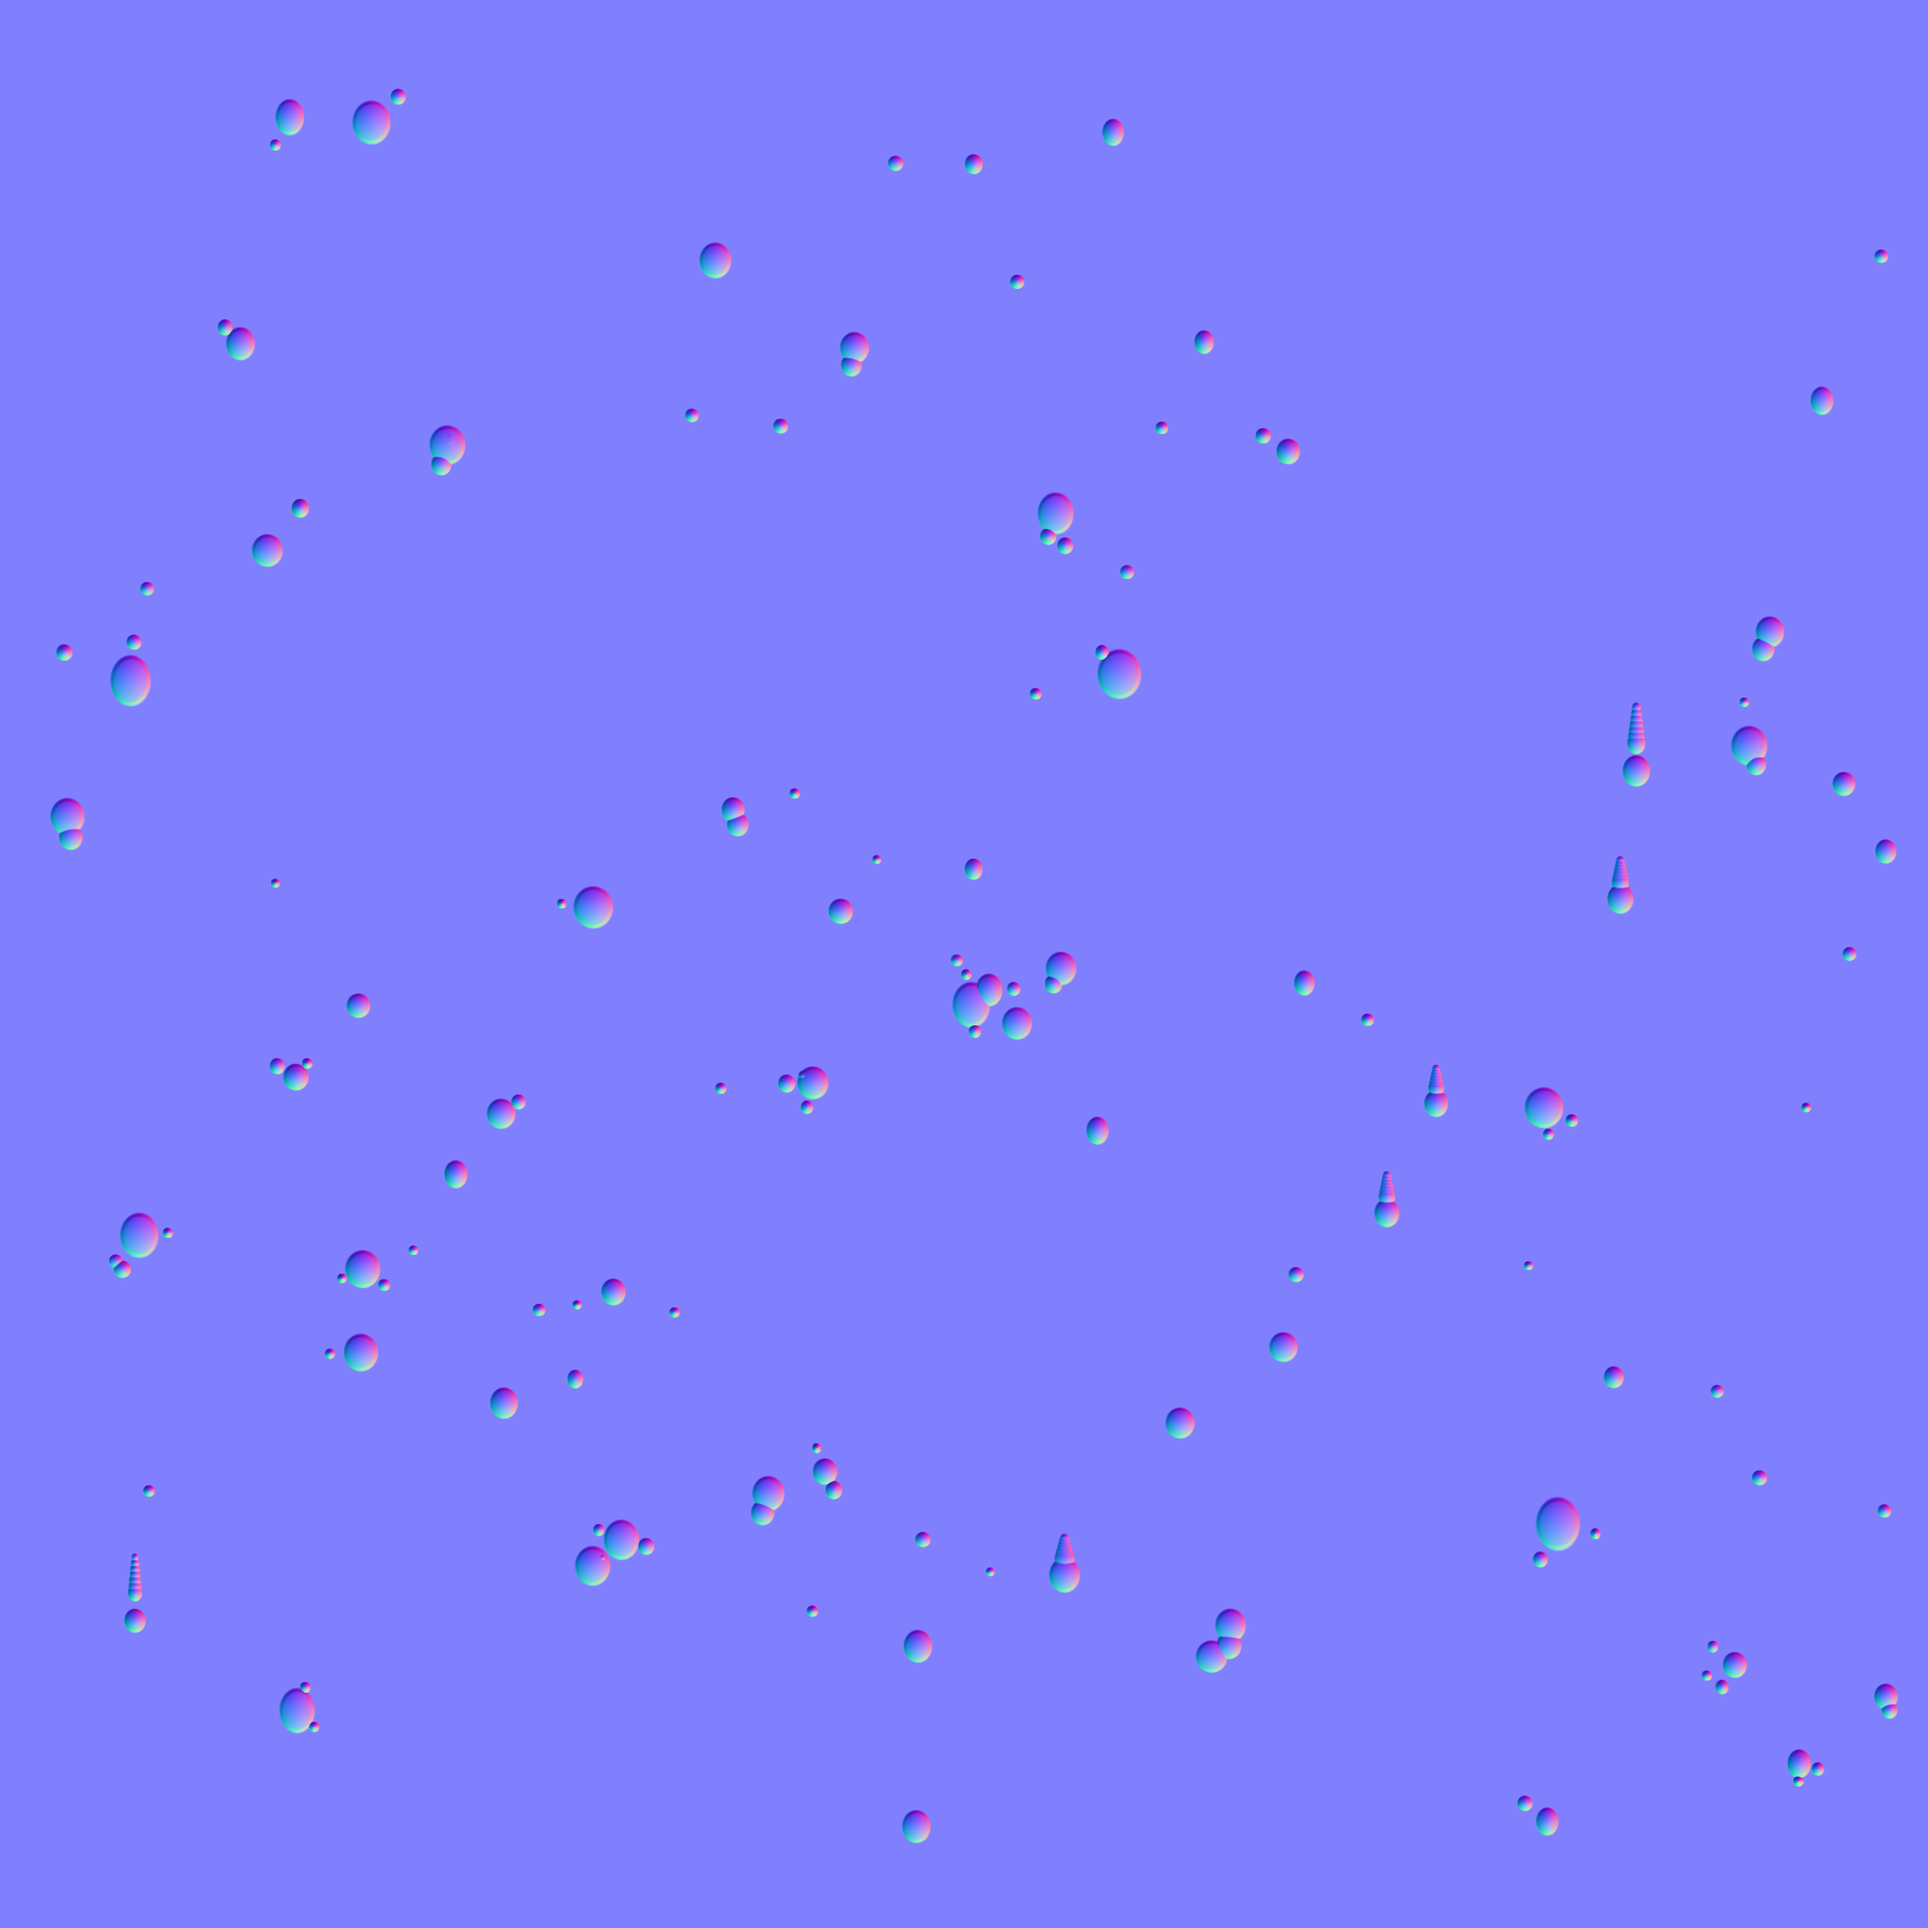
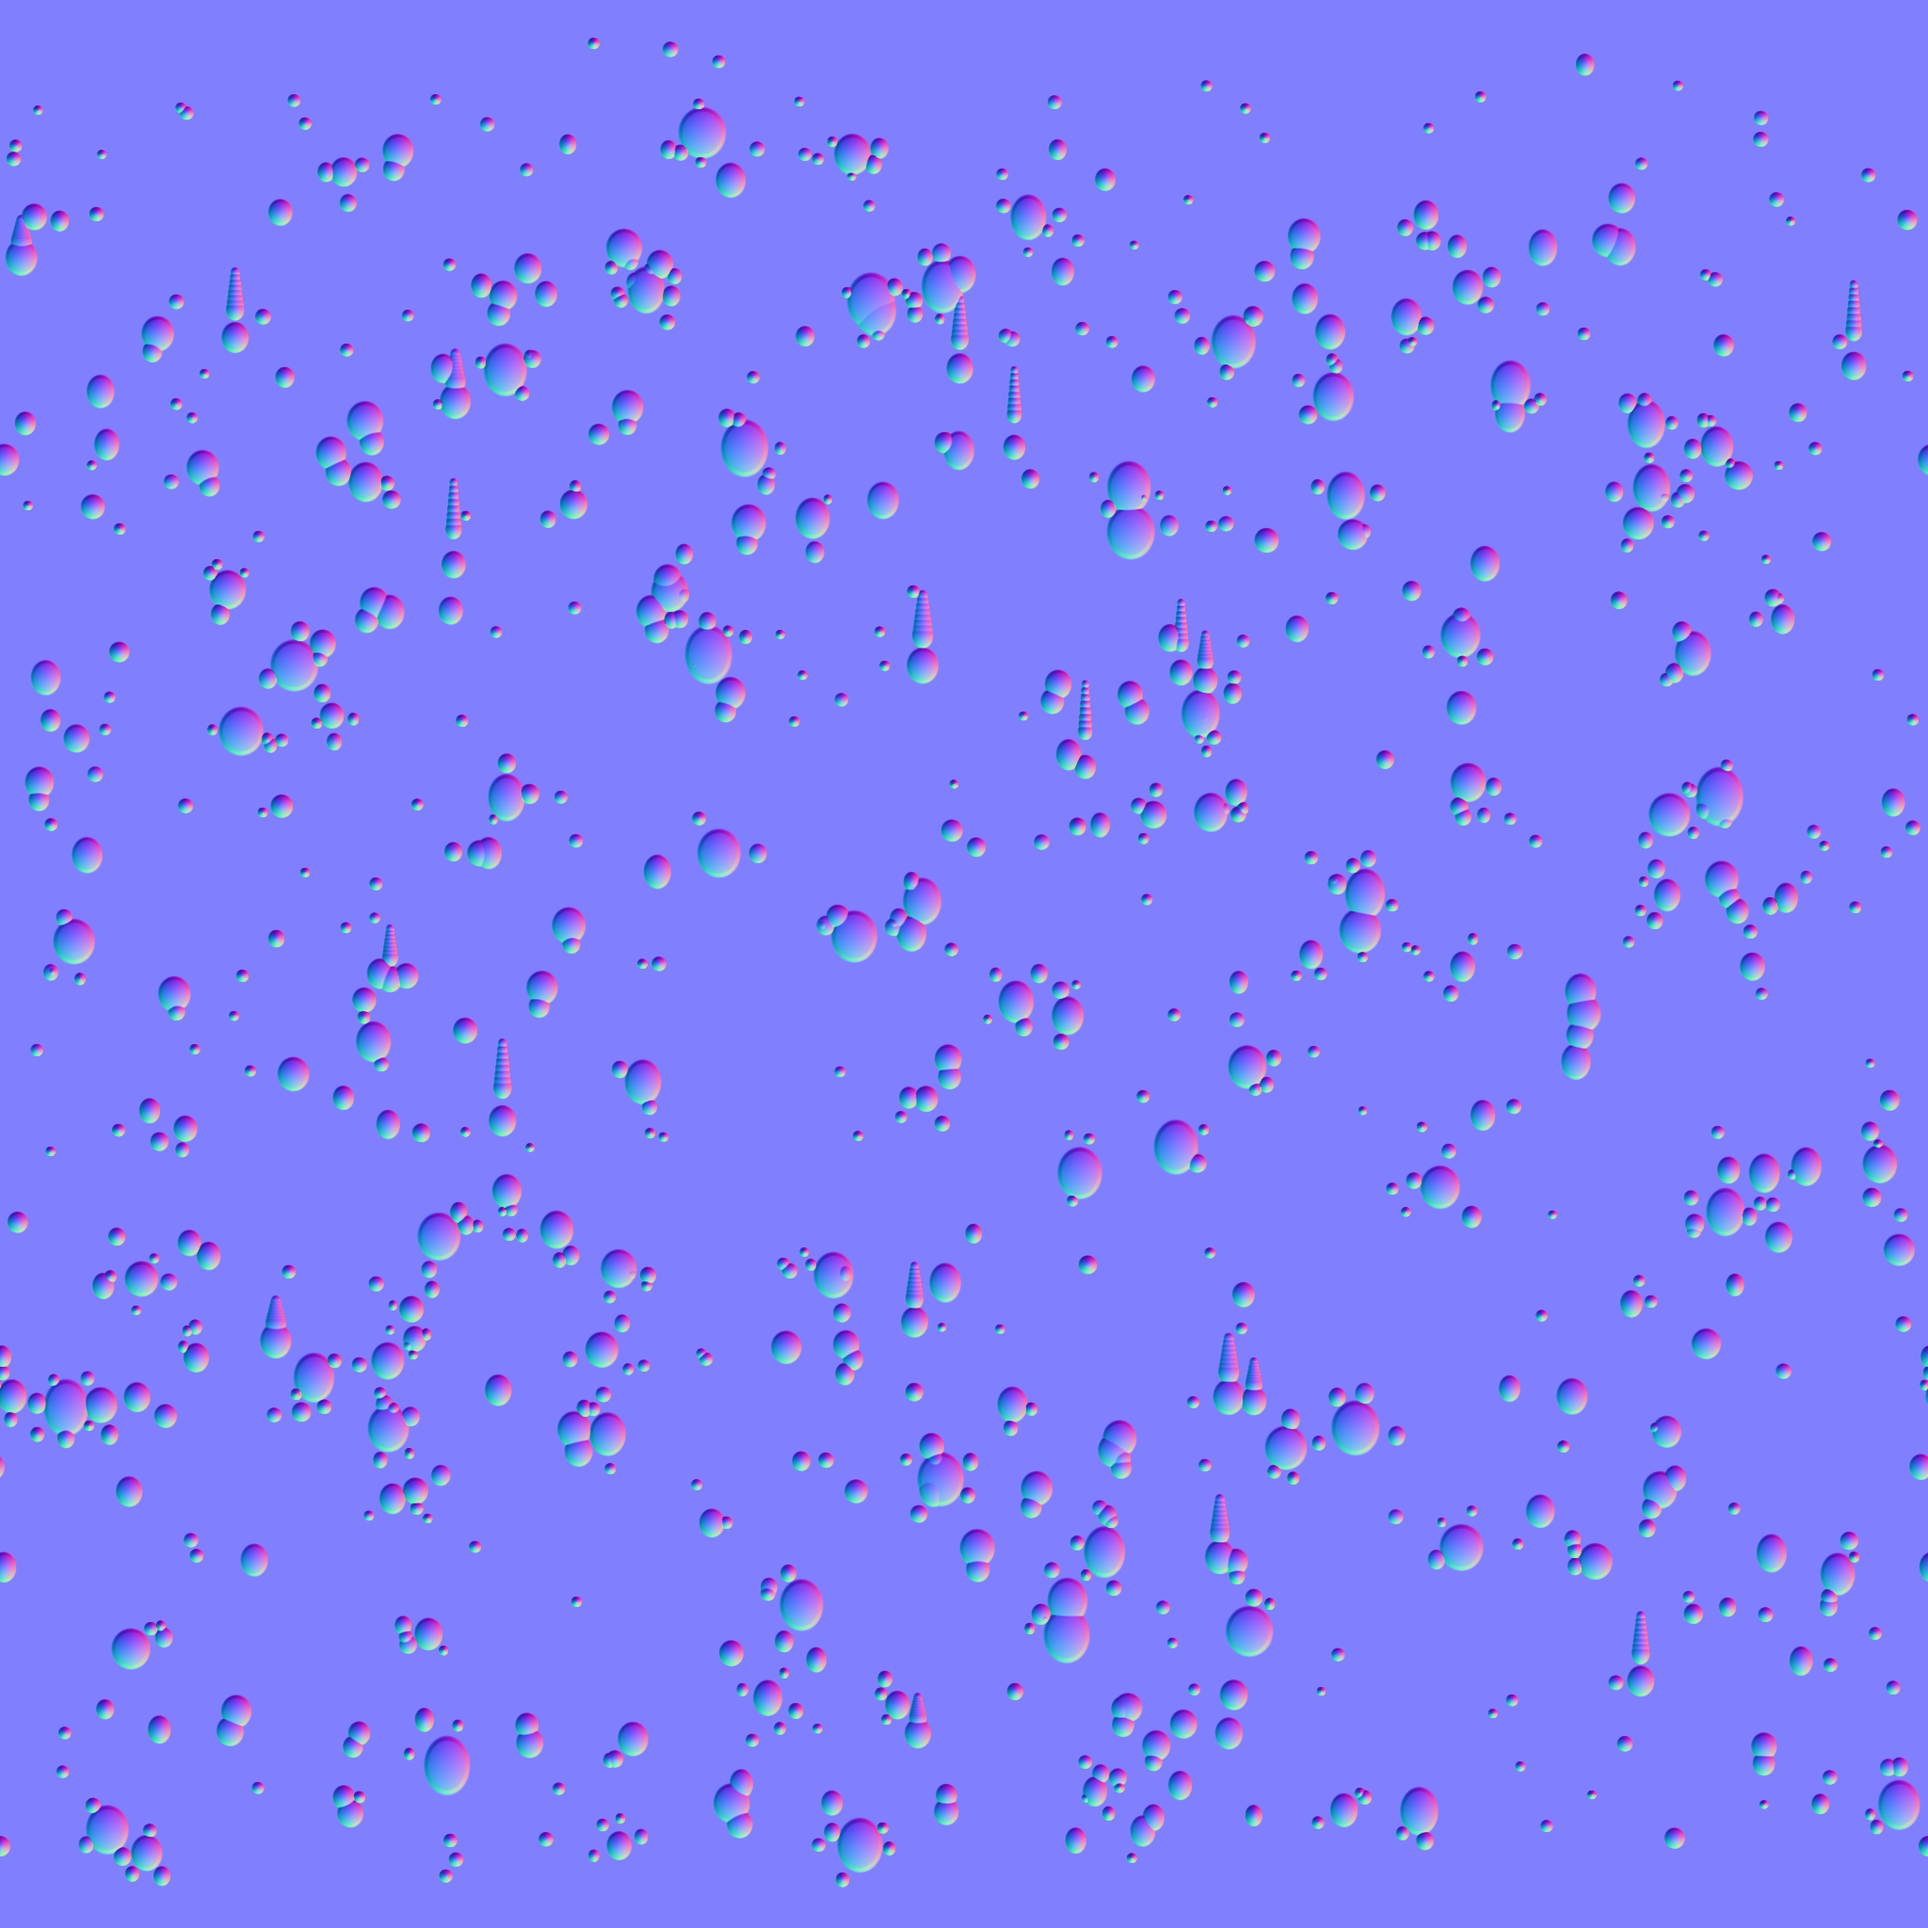
Separar efecto de gotas de agua 3D y efecto de escarcha congelada con controles independientes y aumentar abundancia de gotas segun referencia

diff --git a/index.html b/index.html
@@ -393,14 +393,24 @@
       </button>
     </div>
 
-    <!-- Water Droplets (Efecto Gotas de Condensación 3D) -->
+    <!-- 1. Water Droplets (Gotas de Condensación 3D) -->
     <div class="control-group">
       <div class="section-title">💧 Gotas de Condensación 3D</div>
-      <button class="btn active" id="btn-toggle-frost" style="width: 100%;">
+      <button class="btn active" id="btn-toggle-droplets" style="width: 100%;">
         💧 Gotas de Agua 3D: ON
       </button>
-      <label>Relieve de Gotas: <span id="val-frost">1.2</span></label>
-      <input type="range" id="param-frost" min="0.2" max="2.5" step="0.1" value="1.2">
+      <label>Relieve de Gotas: <span id="val-droplets">1.3</span></label>
+      <input type="range" id="param-droplets" min="0.2" max="2.5" step="0.1" value="1.3">
+    </div>
+
+    <!-- 2. Frost & Freeze Effect (Efecto Congelado / Escarcha) -->
+    <div class="control-group">
+      <div class="section-title">❄ Escarcha / Efecto Congelado</div>
+      <button class="btn active" id="btn-toggle-frost" style="width: 100%;">
+        ❄ Escarcha Congelada: ON
+      </button>
+      <label>Intensidad de Escarcha: <span id="val-frost">1.0</span></label>
+      <input type="range" id="param-frost" min="0.1" max="2.0" step="0.1" value="1.0">
     </div>
 
     <!-- Lighting & Studio Environment -->
@@ -476,8 +486,10 @@
     let wireframeMode = false;
     let targetCanRotationY = 0;
     let shadowPlane = null;
+    let dropletsEnabled = true;
+    let dropletsIntensity = 1.3;
     let frostEnabled = true;
-    let frostIntensity = 1.2;
+    let frostIntensity = 1.0;
 
     // Lights
     let softboxLeft, softboxRight, rimLight, topRimLight, hemiLight;
@@ -628,8 +640,8 @@
         readyBase: 'Materials/Ready/T_BeerCan_BaseColor.png',
         readyNormal: 'Materials/Ready/T_BeerCan_Normal.png',
         readyRMAO: 'Materials/Ready/T_BeerCan_RMAO.png',
-        dropletsNormal: 'Materials/Ready/T_WaterDroplets_Normal.png?v=2',
-        frostRoughness: 'Materials/Ready/T_Frost_Roughness.png?v=2'
+        dropletsNormal: 'Materials/Ready/T_WaterDroplets_Normal.png?v=3',
+        frostRoughness: 'Materials/Ready/T_Frost_Roughness.png?v=3'
       };
 
       const loadPromises = Object.entries(files).map(([key, url]) => {
@@ -772,16 +784,20 @@
       const normalTex = loadedTextures.readyNormal;
       const rmaoTex = loadedTextures.readyRMAO;
 
-      // 1. Printed Can Body (Deep Satin Espresso Black with Real 3D Water Droplets)
+      // 1. Printed Can Body (Deep Satin Espresso Black with Independent 3D Droplets and Frost Sheen)
       if (bodyMesh) {
         bodyMesh.material = new THREE.MeshPhysicalMaterial({
           color: new THREE.Color(matParams.color),
           metalness: matParams.metalness,
-          roughness: matParams.roughness,
-          clearcoat: frostEnabled ? 1.0 : matParams.clearcoat,
-          clearcoatRoughness: frostEnabled ? 0.05 : 0.25,
-          clearcoatNormalMap: frostEnabled ? loadedTextures.dropletsNormal : null,
-          clearcoatNormalScale: new THREE.Vector2(frostIntensity * 1.6, frostIntensity * 1.6),
+          roughness: frostEnabled ? Math.min(0.65, matParams.roughness + frostIntensity * 0.12) : matParams.roughness,
+          roughnessMap: (frostEnabled && loadedTextures.frostRoughness) ? loadedTextures.frostRoughness : null,
+          clearcoat: dropletsEnabled ? 1.0 : matParams.clearcoat,
+          clearcoatRoughness: dropletsEnabled ? 0.05 : 0.25,
+          clearcoatNormalMap: dropletsEnabled ? loadedTextures.dropletsNormal : null,
+          clearcoatNormalScale: new THREE.Vector2(dropletsIntensity * 1.5, dropletsIntensity * 1.5),
+          sheen: frostEnabled ? (frostIntensity * 0.45) : 0,
+          sheenColor: new THREE.Color(0xdbeafe),
+          sheenRoughness: 0.35,
           map: baseTex || null,
           normalMap: normalTex || null,
           normalScale: new THREE.Vector2(0.8, 0.8),
@@ -792,12 +808,12 @@
         });
       }
 
-      // 2. Pure Aluminum Sections (Top Lid, Chime & Base - Bright Sparkling Silver Aluminum)
+      // 2. Pure Aluminum Sections (Top Lid, Chime & Base - Bright Sparkling Silver Aluminum with Frost Option)
       if (alumMesh) {
         alumMesh.material = new THREE.MeshStandardMaterial({
           color: new THREE.Color(0xffffff),
           metalness: 0.90,
-          roughness: 0.16,
+          roughness: frostEnabled ? (0.16 + frostIntensity * 0.10) : 0.16,
           envMapIntensity: 2.2,
           map: loadedTextures.readyBase || null,
           normalMap: normalTex || null,
@@ -813,18 +829,21 @@
     function updateMaterialParams() {
       if (bodyMesh && bodyMesh.material) {
         bodyMesh.material.color.set(matParams.color);
-        bodyMesh.material.roughness = matParams.roughness;
-        bodyMesh.material.clearcoat = frostEnabled ? 1.0 : matParams.clearcoat;
-        bodyMesh.material.clearcoatRoughness = frostEnabled ? 0.05 : 0.25;
-        bodyMesh.material.clearcoatNormalMap = frostEnabled ? loadedTextures.dropletsNormal : null;
+        bodyMesh.material.roughness = frostEnabled ? Math.min(0.65, matParams.roughness + frostIntensity * 0.12) : matParams.roughness;
+        bodyMesh.material.roughnessMap = (frostEnabled && loadedTextures.frostRoughness) ? loadedTextures.frostRoughness : null;
+        bodyMesh.material.clearcoat = dropletsEnabled ? 1.0 : matParams.clearcoat;
+        bodyMesh.material.clearcoatRoughness = dropletsEnabled ? 0.05 : 0.25;
+        bodyMesh.material.clearcoatNormalMap = dropletsEnabled ? loadedTextures.dropletsNormal : null;
         if (bodyMesh.material.clearcoatNormalScale) {
-          bodyMesh.material.clearcoatNormalScale.set(frostIntensity * 1.6, frostIntensity * 1.6);
+          bodyMesh.material.clearcoatNormalScale.set(dropletsIntensity * 1.5, dropletsIntensity * 1.5);
         }
+        bodyMesh.material.sheen = frostEnabled ? (frostIntensity * 0.45) : 0;
         bodyMesh.material.wireframe = wireframeMode;
         bodyMesh.material.needsUpdate = true;
       }
       if (alumMesh && alumMesh.material) {
         alumMesh.material.color.set(0xffffff);
+        alumMesh.material.roughness = frostEnabled ? (0.16 + frostIntensity * 0.10) : 0.16;
         alumMesh.material.normalMap = loadedTextures.readyNormal || null;
         if (alumMesh.material.normalScale) {
           alumMesh.material.normalScale.set(1.0, 1.0);
@@ -901,7 +920,25 @@
         }
       });
 
-      // Frost and water droplets toggle & slider
+      // 1. Water Droplets toggle & slider
+      const btnToggleDroplets = document.getElementById('btn-toggle-droplets');
+      const dropletsInput = document.getElementById('param-droplets');
+      const dropletsVal = document.getElementById('val-droplets');
+
+      btnToggleDroplets.addEventListener('click', () => {
+        dropletsEnabled = !dropletsEnabled;
+        btnToggleDroplets.classList.toggle('active', dropletsEnabled);
+        btnToggleDroplets.textContent = dropletsEnabled ? '💧 Gotas de Agua 3D: ON' : '💧 Gotas de Agua 3D: OFF';
+        updateMaterialParams();
+      });
+
+      dropletsInput.addEventListener('input', (e) => {
+        dropletsIntensity = parseFloat(e.target.value);
+        dropletsVal.textContent = dropletsIntensity.toFixed(1);
+        updateMaterialParams();
+      });
+
+      // 2. Frost and Freeze toggle & slider
       const btnToggleFrost = document.getElementById('btn-toggle-frost');
       const frostInput = document.getElementById('param-frost');
       const frostVal = document.getElementById('val-frost');
@@ -909,7 +946,7 @@
       btnToggleFrost.addEventListener('click', () => {
         frostEnabled = !frostEnabled;
         btnToggleFrost.classList.toggle('active', frostEnabled);
-        btnToggleFrost.textContent = frostEnabled ? '💧 Gotas de Agua 3D: ON' : '☀ Lata Seca: OFF';
+        btnToggleFrost.textContent = frostEnabled ? '❄ Escarcha Congelada: ON' : '❄ Escarcha Congelada: OFF';
         updateMaterialParams();
       });
 

diff --git a/README.md b/README.md
@@ -27,7 +27,8 @@ Visualizador interactivo 3D en tiempo real para la lata comercial **KALPA Café 
   - `🔝 Tapa`: Vista cenital directa hacia la tapa y el abre-fácil.
   - `⬇ Base`: Vista inferior directa hacia el domo de aluminio.
 - **Herramientas de Estudio:**
-  - **💧 Gotas de Condensación 3D:** Capa física de barniz líquido con gotas de agua discretas y realistas con relieve 3D (`MeshPhysicalMaterial.clearcoatNormalMap`), reflejos cristalinos ultra nítidos y luces de recorte ámbar y blanco sobre el negro satinado profundo de la lata, con botón conmutable ON/OFF y regulador continuo de intensidad en tiempo real.
+  - **💧 Gotas de Condensación 3D:** Capa física de barniz líquido con abundantes y realistas cuentas de agua esféricas, condensación agrupada y escurrimientos con relieve 3D (`MeshPhysicalMaterial.clearcoatNormalMap`), reflejos cristalinos independientes, botón conmutable ON/OFF y regulador de relieve en tiempo real.
+  - **❄ Efecto Congelado / Escarcha:** Simulación de frío sub-cero con película cristalina de micro-escarcha (`roughnessMap`), halo y destellos gélidos (*sheen* sub-cero en `#e0f2fe`), enfriamiento mate del aluminio de tapa y base, botón conmutable ON/OFF y regulador de intensidad de escarcha independiente.
   - Tinte interactivo del cuerpo (sin alterar el aluminio de la tapa ni de la base).
   - Control de lustre satinado (roughness) e intensidad de luces.
   - Giro automático, modo malla (wireframe) y captura de pantalla en alta resolución (HD).
